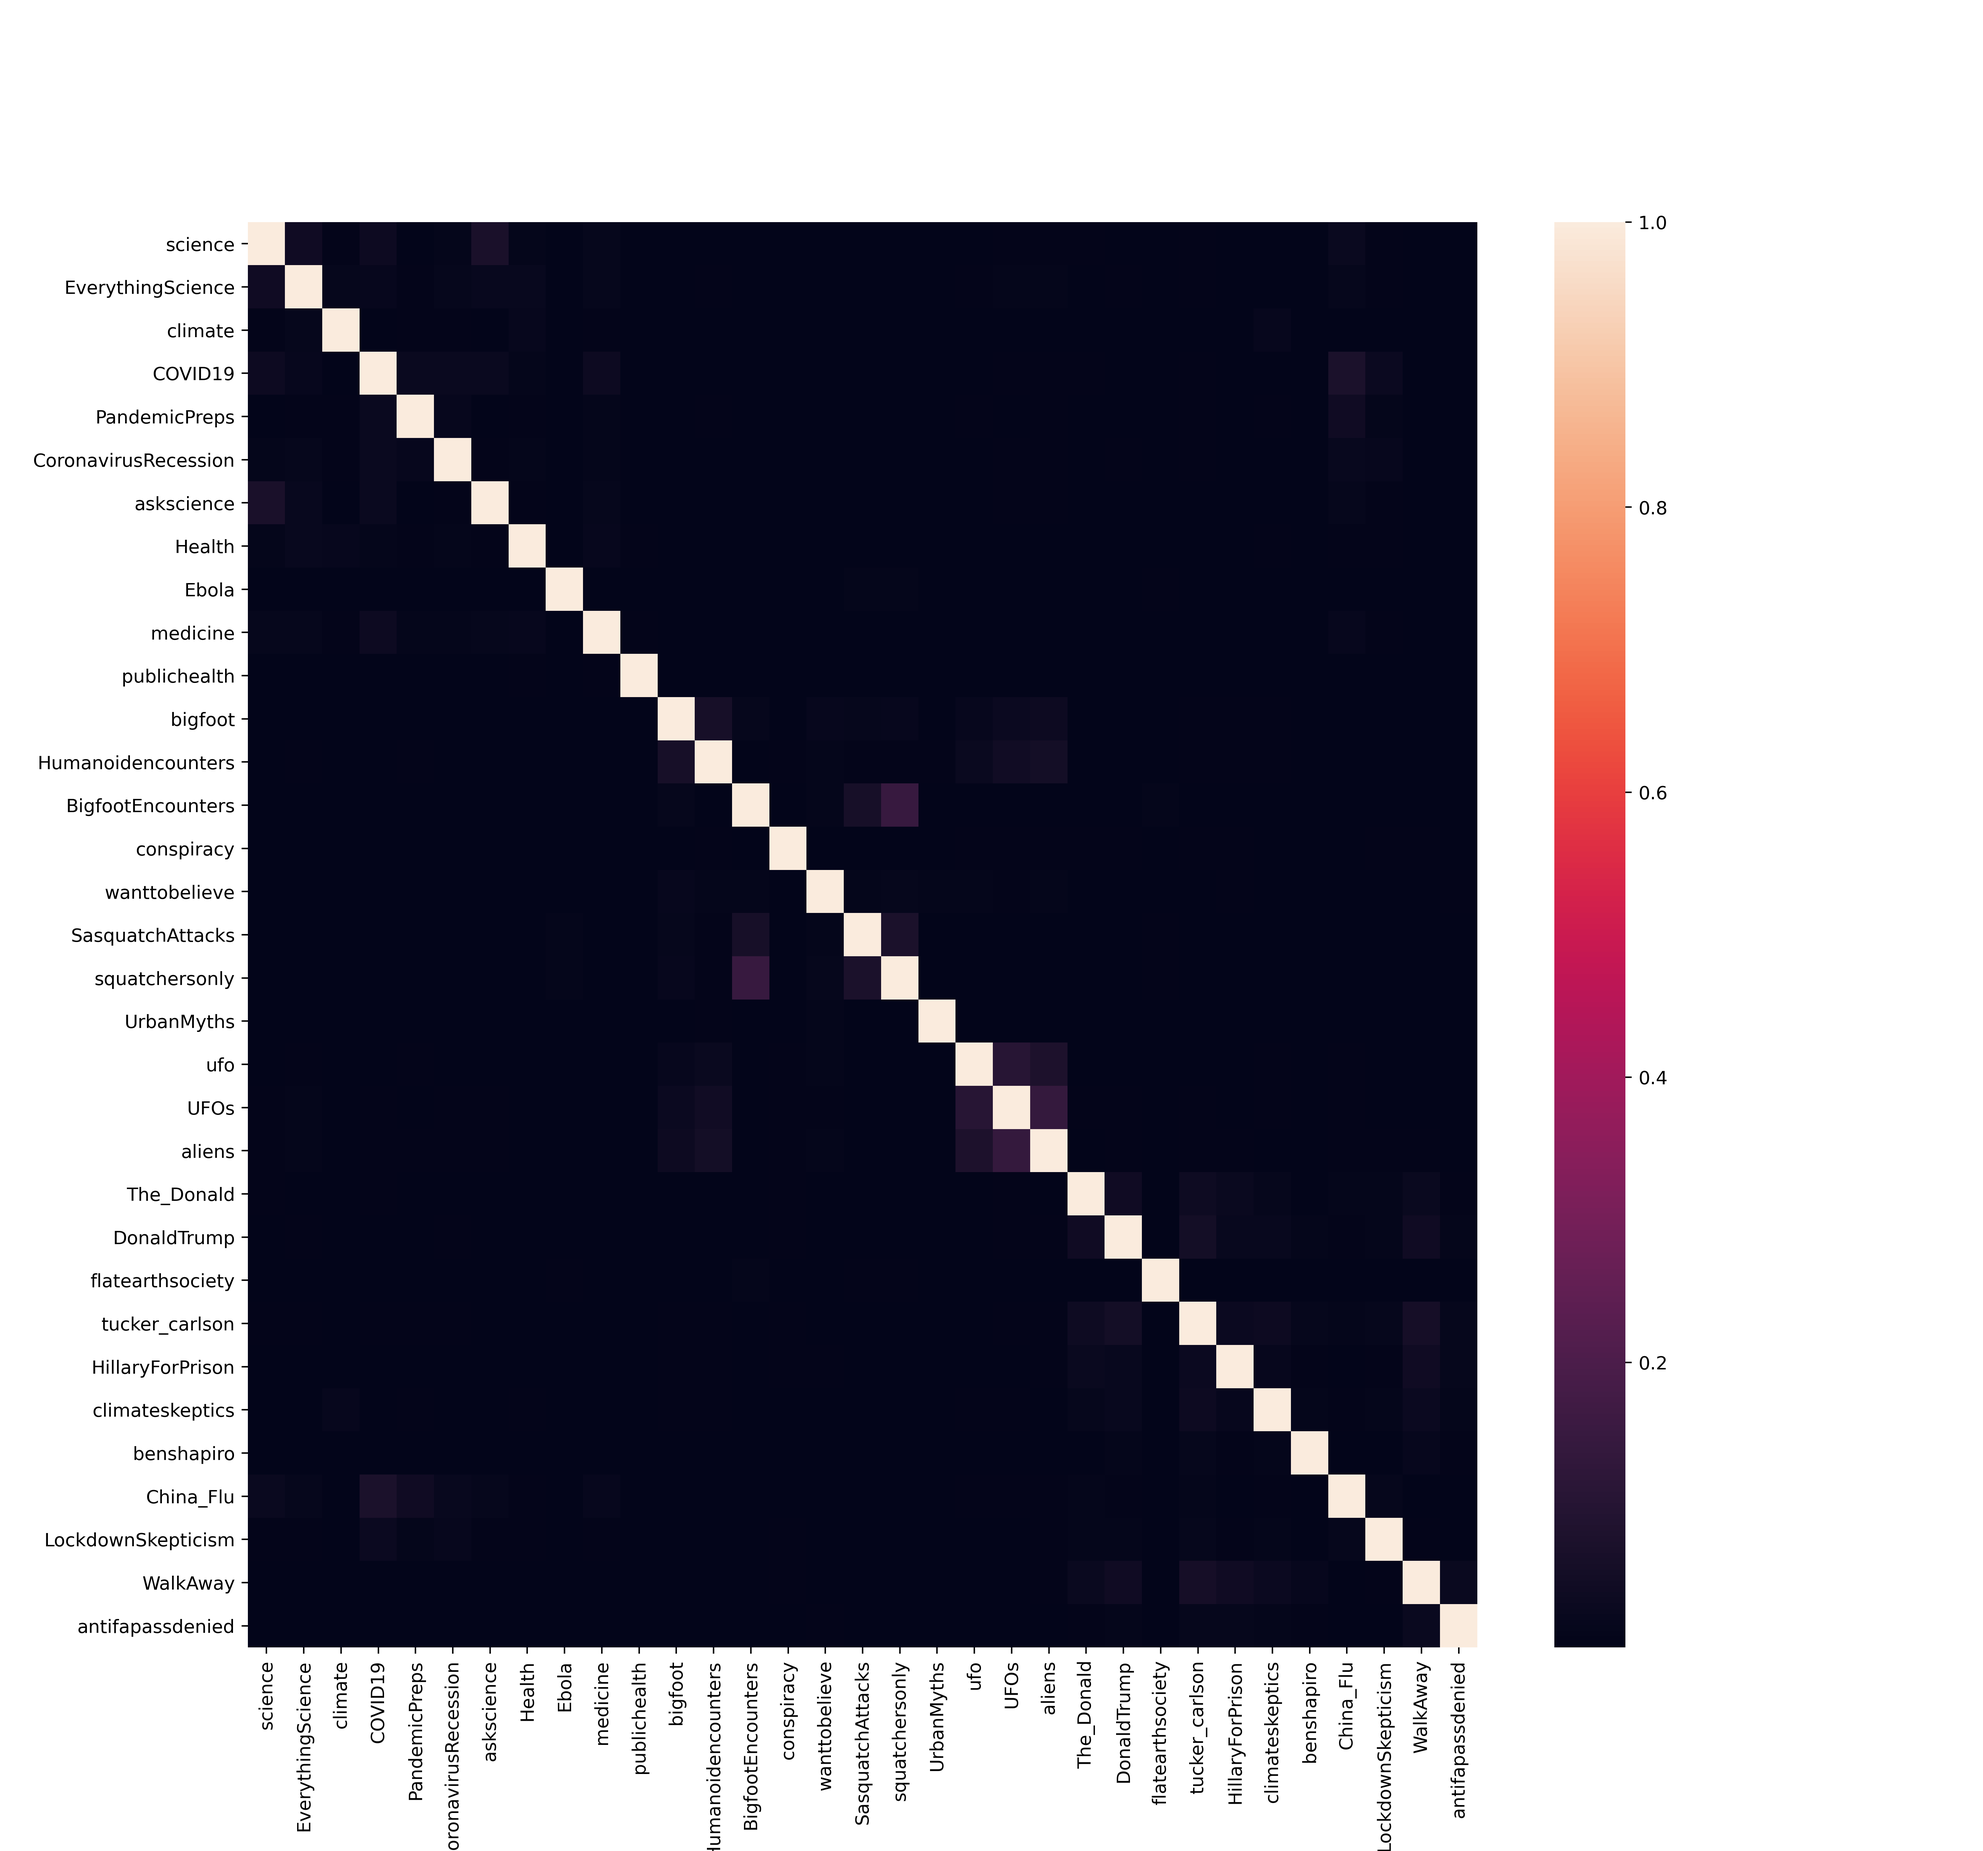
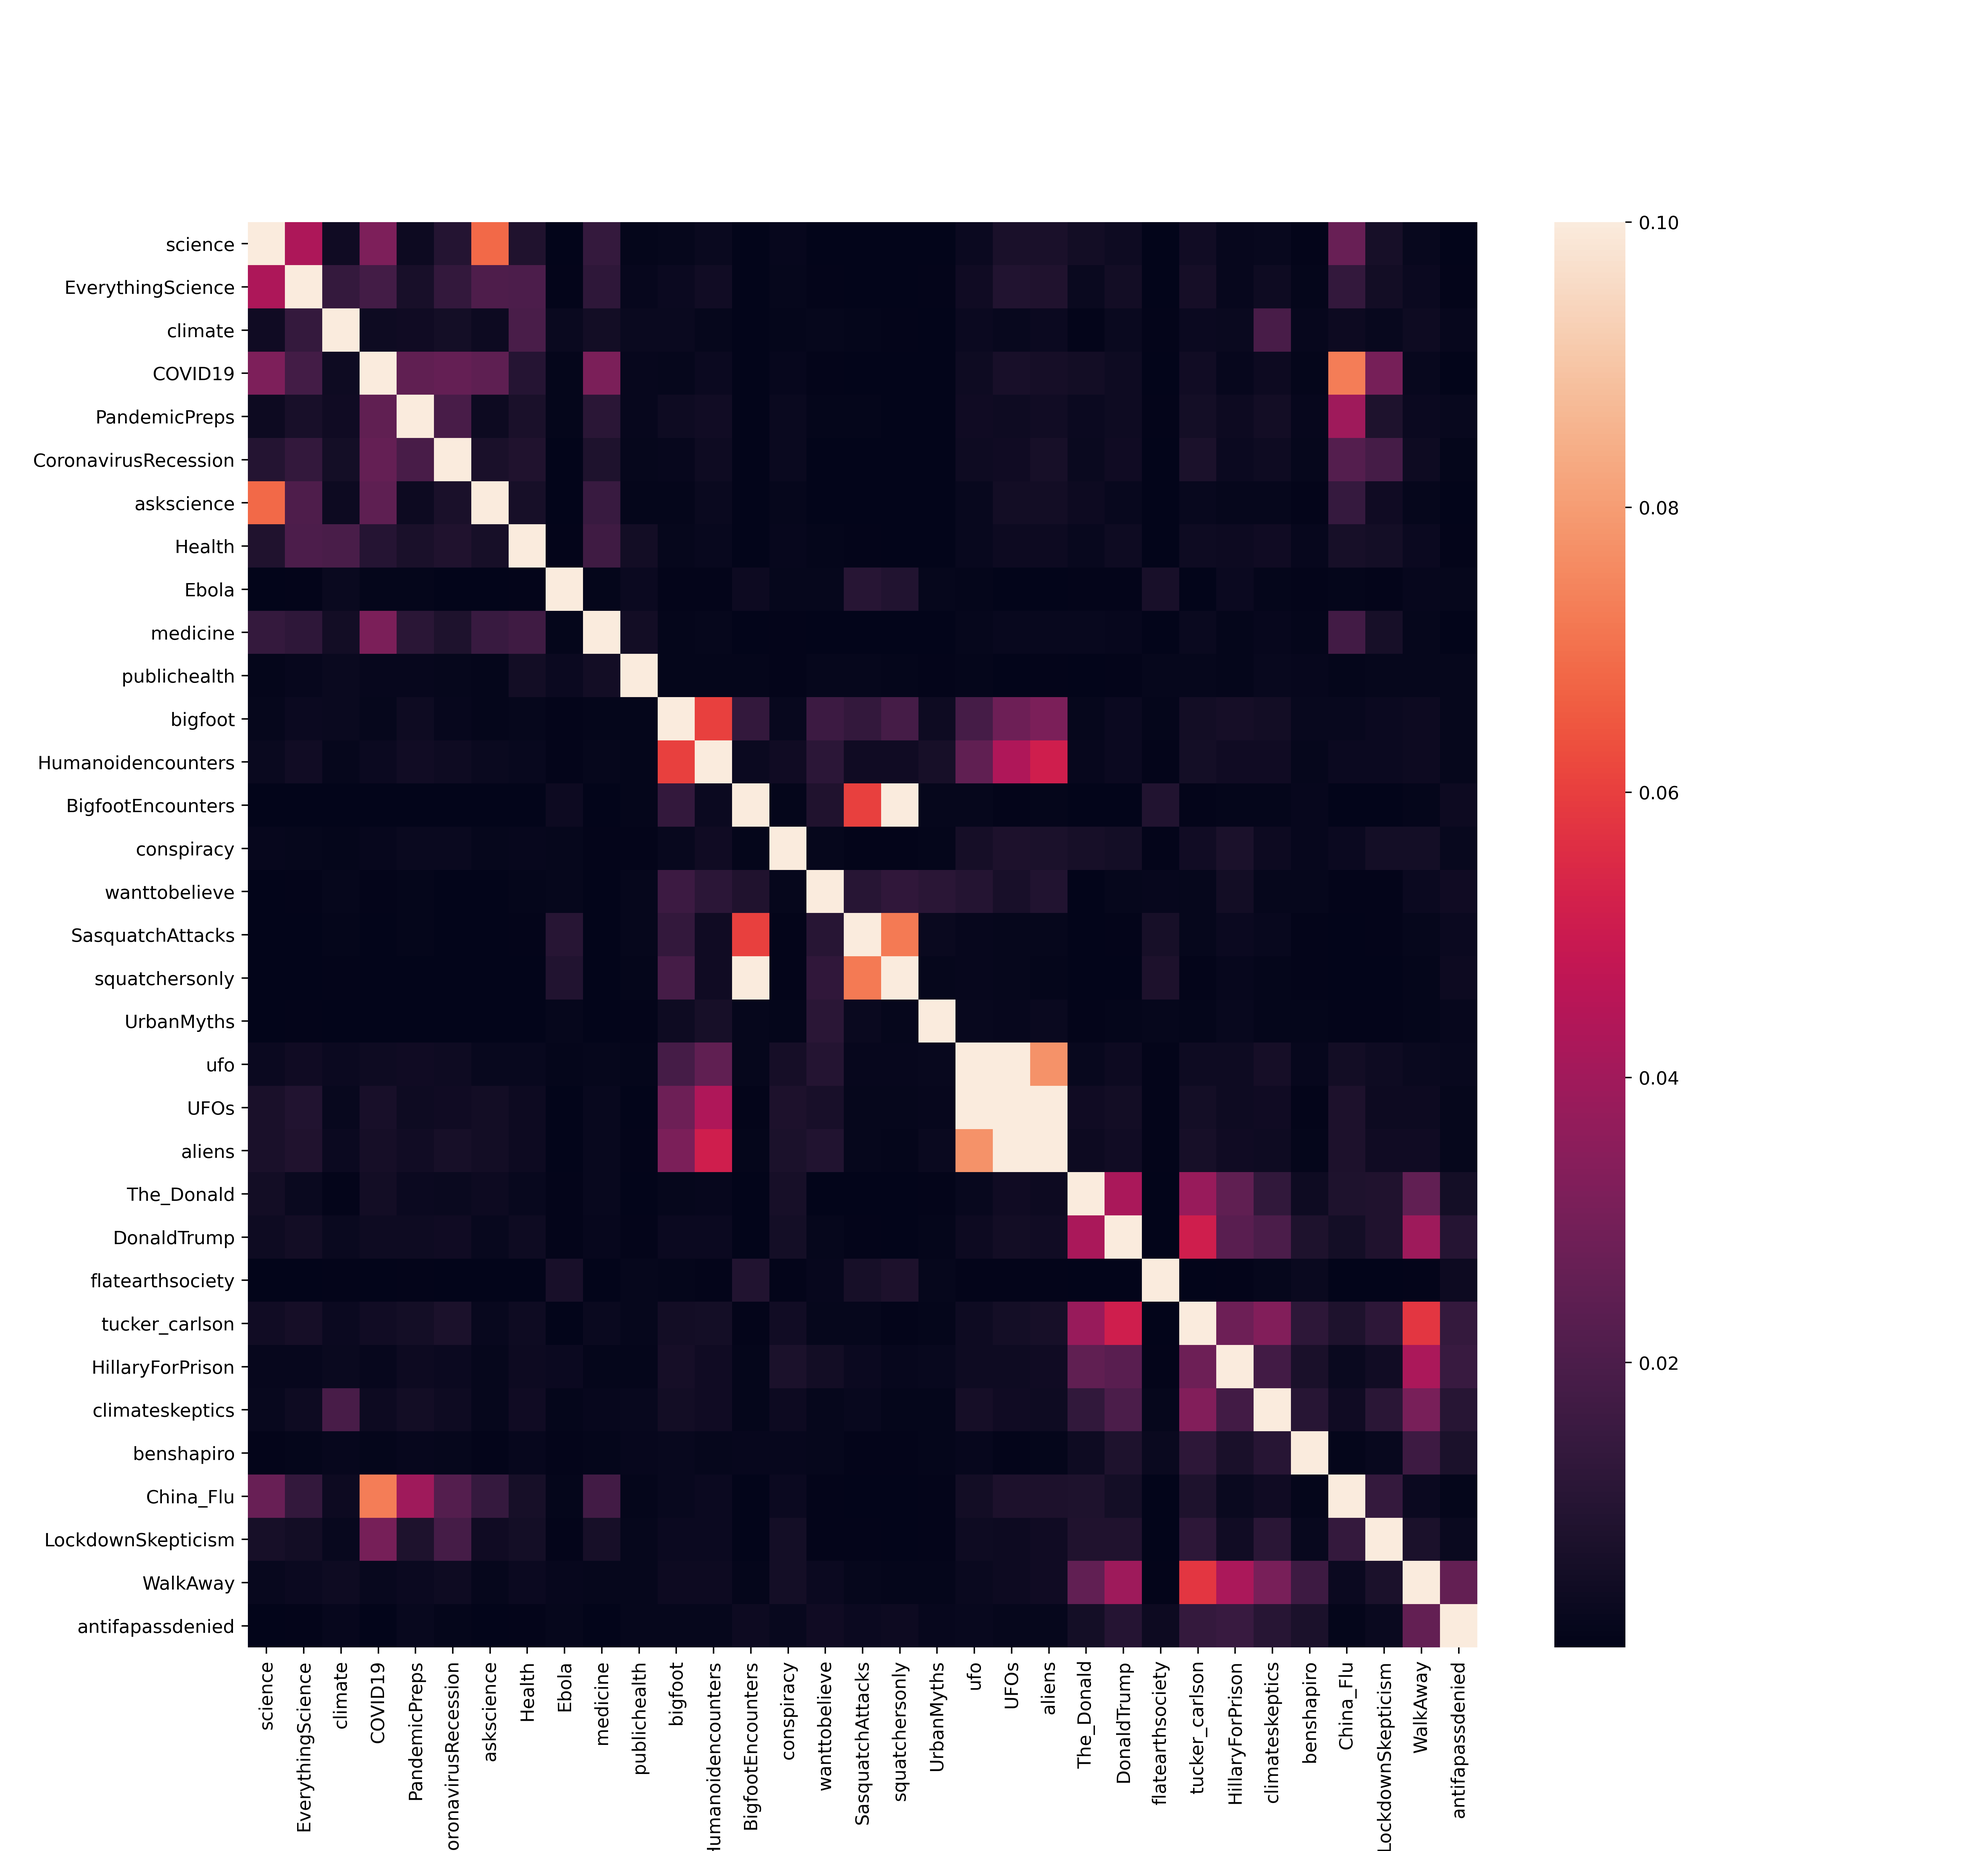
rescaled heatmap

diff --git a/src/visualization/plot_graphs.py b/src/visualization/plot_graphs.py
@@ -33,7 +33,7 @@ def count_chart(count_dict_path, save_path):
     plt.clf()
     
     df = pd.read_csv(count_dict_path, index_col=0, header=0)
-    plot = sns.heatmap(df).get_figure()
+    plot = sns.heatmap(df, vmax=0.1).get_figure()
     plot.savefig(save_path, dpi=400)
 
 def polarity_chart(polarity_dict_path, save_paths):
